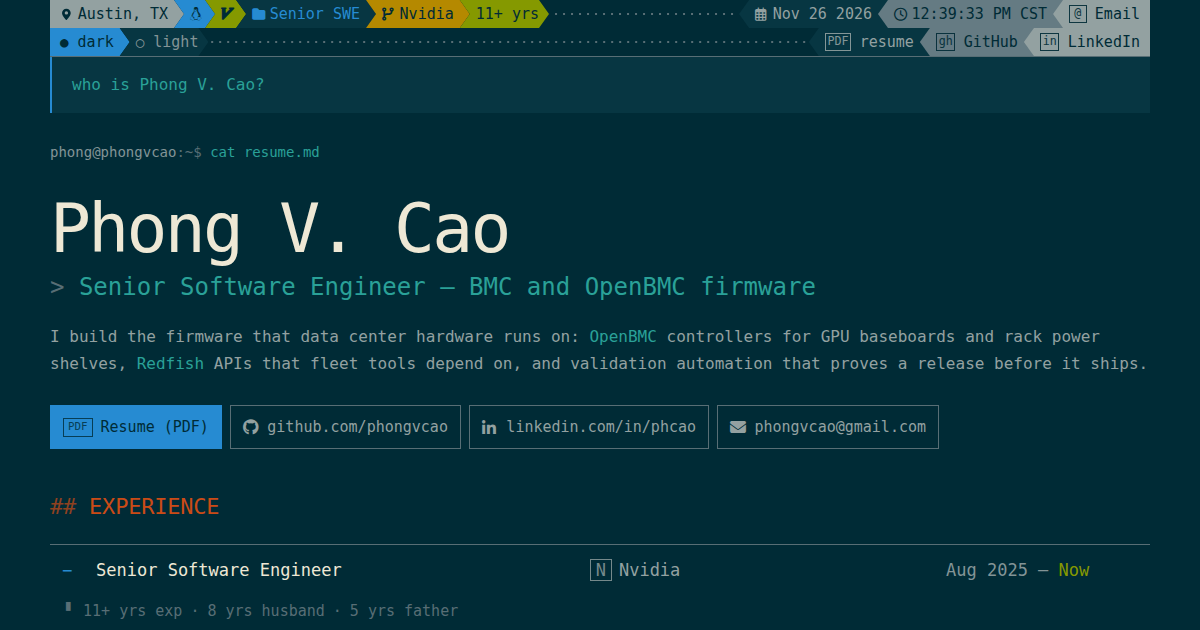
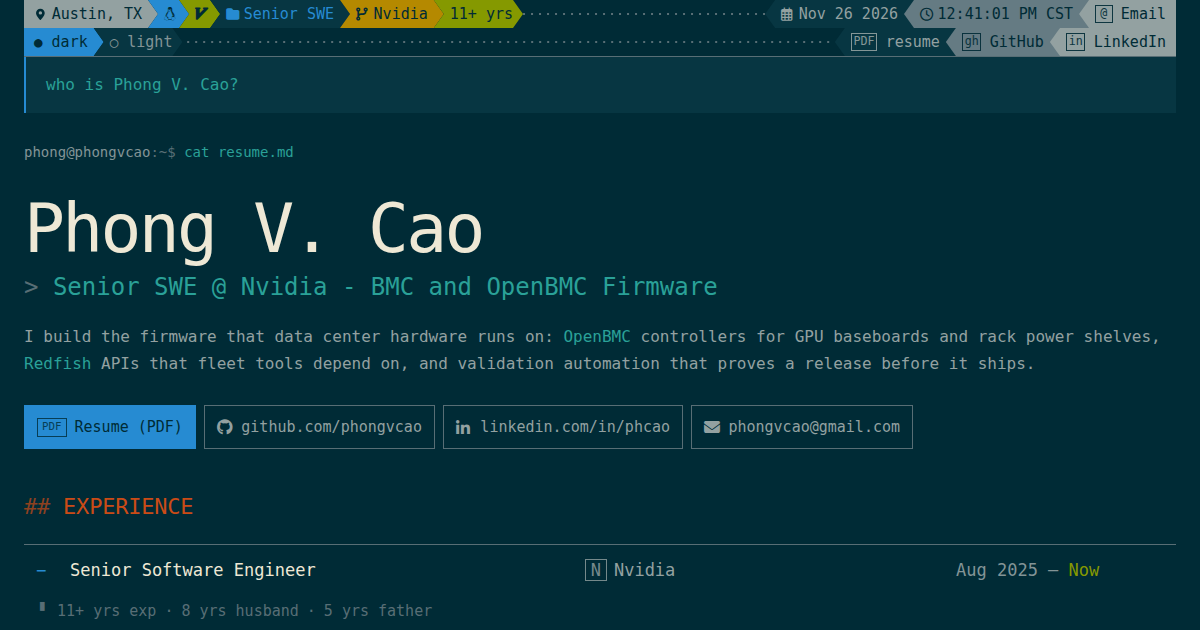
site: 1200 px page, one-line bullets, new role line
- Page, powerline, question block and prompt all widen to 1200 px
- Every experience bullet fits on a single line at 1200 and above
- Dates and tags keep 16 px from the right edge
- Role line: Senior SWE @ Nvidia - BMC and OpenBMC Firmware

diff --git a/styles.css b/styles.css
@@ -51,6 +51,7 @@
   --prompt-h: 92px;
   --status-h: 29px;
 
+  --page-w: 1200px;
   --mono: "Site Mono", "DejaVuSansM Nerd Font", "DejaVuSansM Nerd Font Mono", "DejaVuSansMono Nerd Font", "DejaVuSansMono Nerd Font Mono", "DejaVu Sans Mono", ui-monospace, SFMono-Regular, "SF Mono", Menlo, Monaco, Consolas, "Liberation Mono", "Courier New", monospace;
 }
 
@@ -111,7 +112,7 @@ a:hover {
 
 .page {
   flex: 1;
-  width: min(1100px, calc(100% - 48px));
+  width: min(var(--page-w), calc(100% - 48px));
   margin: 0 auto;
   padding: var(--topbar-h) 0 24px;
 }
@@ -451,7 +452,7 @@ code {
   grid-template-columns: 2em minmax(0, 1.4fr) minmax(0, 1fr) 12em;
   align-items: baseline;
   gap: 12px;
-  padding: 11px 0;
+  padding: 11px 16px 11px 0;
   cursor: pointer;
   list-style: none;
   font-size: 1.0625rem;
@@ -643,7 +644,7 @@ code {
   right: 0;
   bottom: var(--status-h);
   z-index: 100;
-  width: min(1100px, calc(100% - 48px));
+  width: min(var(--page-w), calc(100% - 48px));
   margin: 0 auto;
   padding: 14px 16px;
   border: 1px solid var(--base01);
@@ -708,7 +709,7 @@ code {
   display: flex;
   align-items: center;
   gap: 8px;
-  width: min(1100px, calc(100% - 48px));
+  width: min(var(--page-w), calc(100% - 48px));
   margin: 0 auto;
   padding: 0 16px 8px;
   background: var(--base03);
@@ -739,7 +740,7 @@ code {
   align-items: center;
   justify-content: space-between;
   gap: 4px 16px;
-  width: min(1100px, calc(100% - 48px));
+  width: min(var(--page-w), calc(100% - 48px));
   margin: 0 auto;
   padding: 4px 16px;
   border-top: 1px solid var(--base01);
@@ -903,7 +904,7 @@ code {
   z-index: 100;
   display: flex;
   flex-direction: column;
-  width: min(1100px, calc(100% - 48px));
+  width: min(var(--page-w), calc(100% - 48px));
   margin: 0 auto;
   padding: 0;
   border-bottom: 1px solid var(--base01);
@@ -1155,7 +1156,7 @@ code {
   .exp-summary {
     grid-template-columns: 1.5em minmax(0, 1fr);
     gap: 2px 8px;
-    padding: 10px 0;
+    padding: 10px 10px 10px 0;
   }
 
   .exp-role {
@@ -1193,7 +1194,7 @@ code {
 
   .pl-top {
     gap: 4px;
-    width: min(1100px, calc(100% - 48px));
+    width: min(var(--page-w), calc(100% - 48px));
     margin: 0 auto;
     padding: 4px 0;
   }

diff --git a/index.html b/index.html
@@ -119,7 +119,7 @@
       <p class="command-line"><span class="host">phong@phongvcao</span><span class="dim">:~$</span> <span class="cmd">cat resume.md</span></p>
 
       <h1>Phong V. Cao<span class="cursor" aria-hidden="true"></span></h1>
-      <p class="role"><span class="mark" aria-hidden="true">&gt; </span>Senior Software Engineer — BMC and <a class="term-link" href="https://openbmc.org/" target="_blank" rel="noopener">OpenBMC</a> firmware</p>
+      <p class="role"><span class="mark" aria-hidden="true">&gt; </span>Senior SWE @ <a class="company-link" href="https://www.nvidia.com/" target="_blank" rel="noopener">Nvidia</a> - BMC and <a class="term-link" href="https://openbmc.org/" target="_blank" rel="noopener">OpenBMC</a> Firmware</p>
       <p class="intro">I build the firmware that data center hardware runs on: <a class="term-link" href="https://openbmc.org/" target="_blank" rel="noopener"><code>OpenBMC</code></a> controllers for GPU baseboards and rack power shelves, <a class="term-link" href="https://www.dmtf.org/standards/redfish" target="_blank" rel="noopener"><code>Redfish</code></a> APIs that fleet tools depend on, and validation automation that proves a release before it ships.</p>
 
       <nav class="actions" aria-label="Links">
